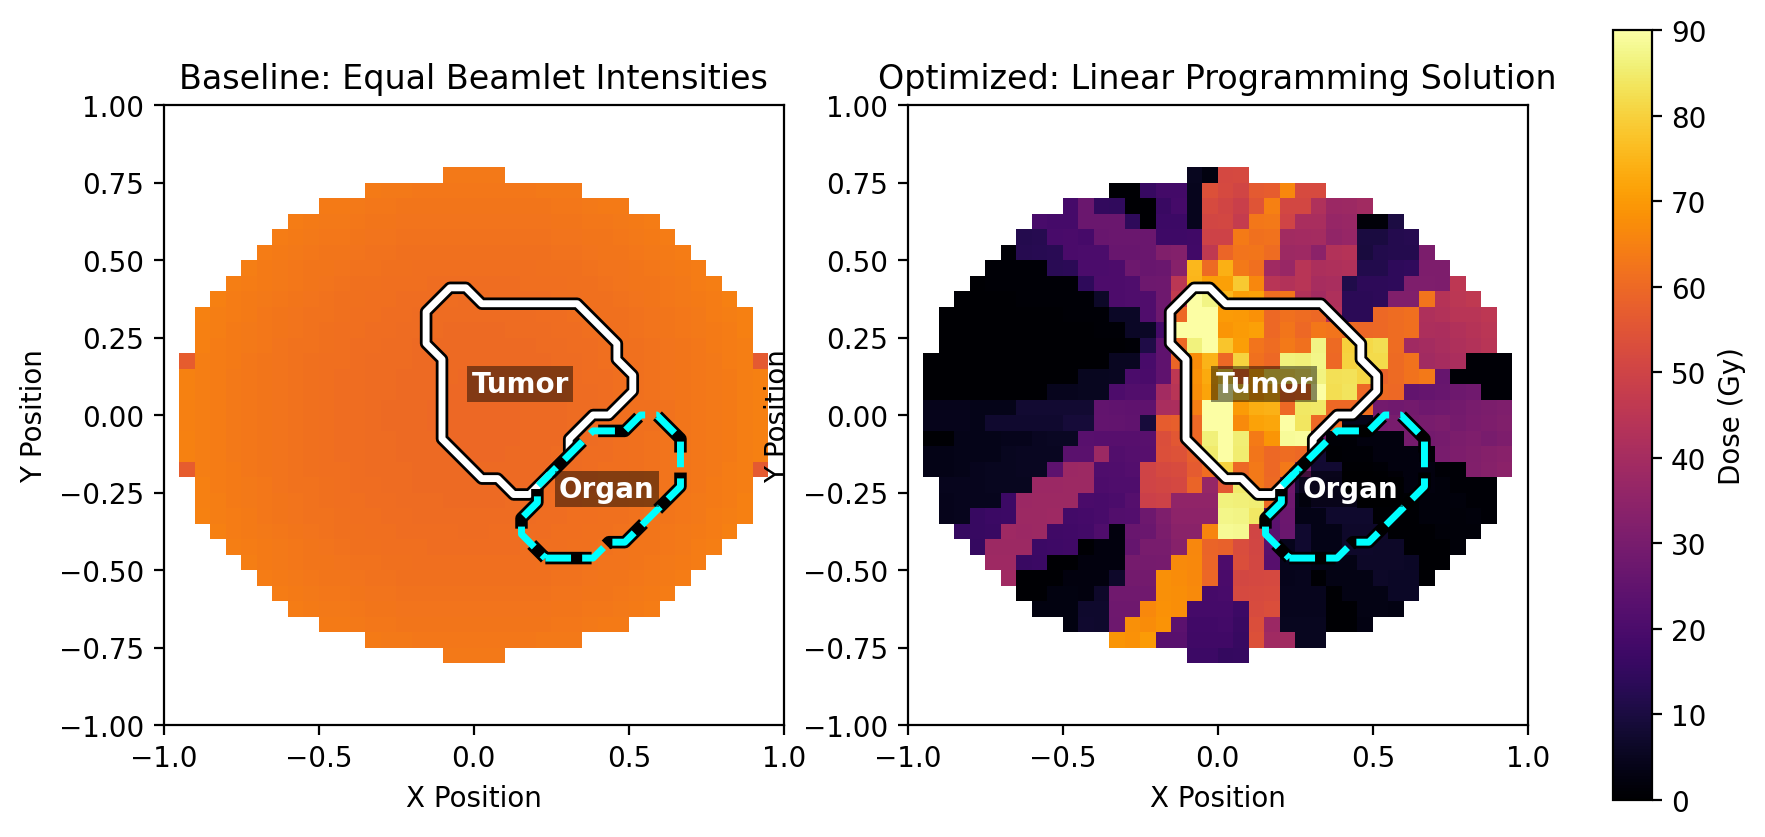
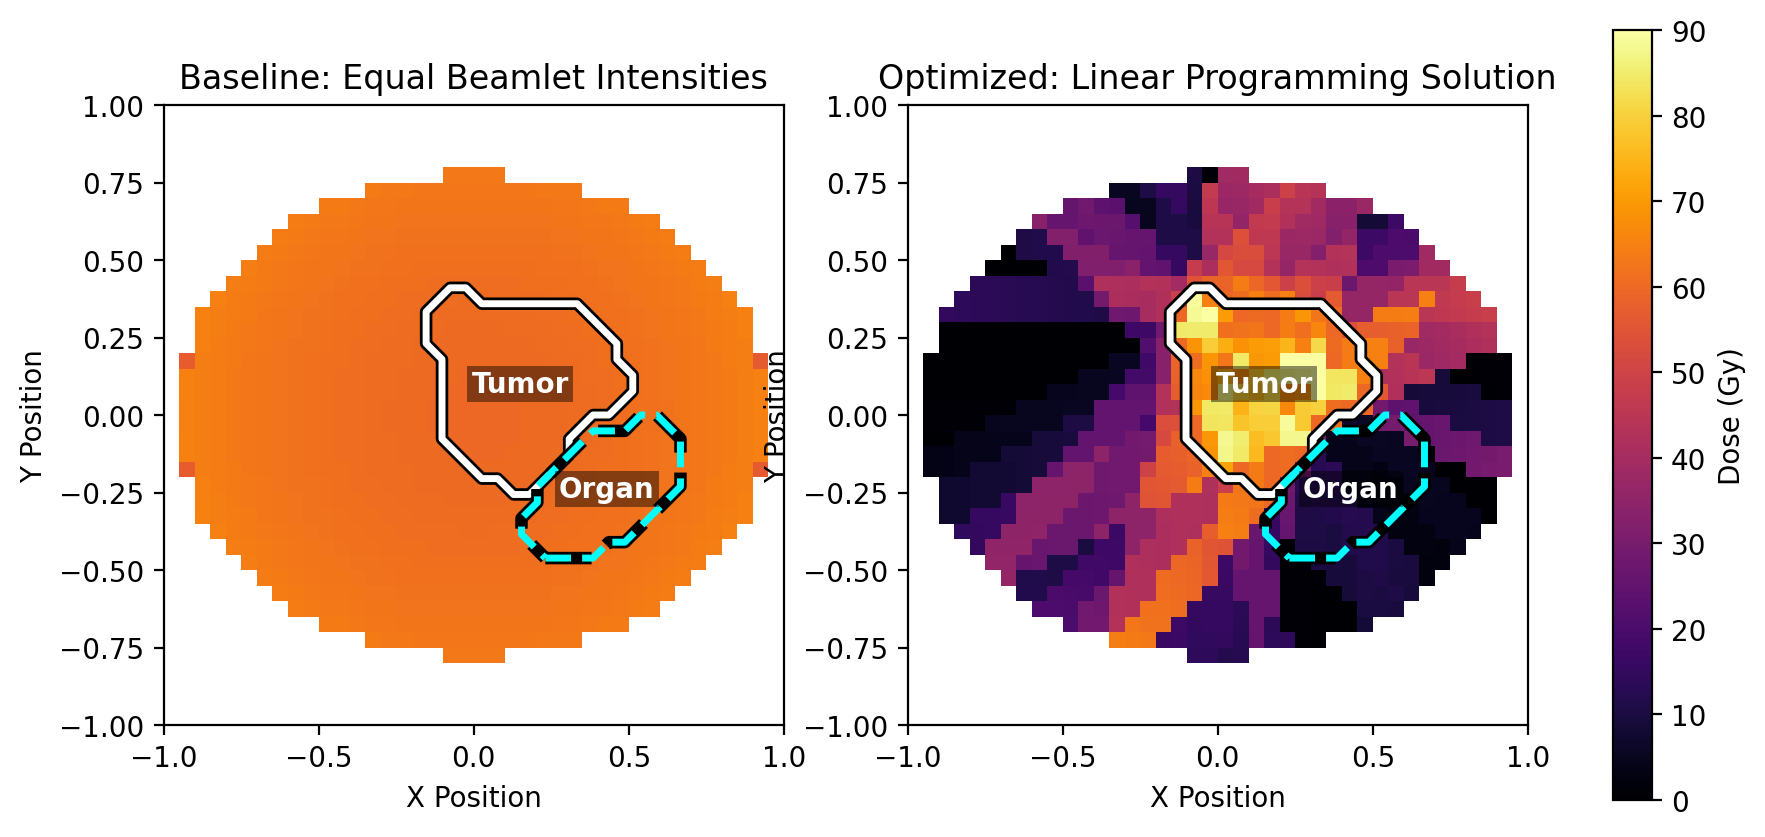
Add healthy-tissue hot-spot cap and feasibility-boundary sweep
- Third per-voxel rule: no healthy voxel above 65 Gy, anchored just
  under the baseline's healthy max (65.1) - the uncapped model hid an
  88.4 Gy hot spot behind a good average
- Sweep now starts at the 30 Gy rule and reports deltas vs it;
  bisection finds the feasibility wall at 26.66 Gy (3.34 Gy of room)
- Updated results: organ mean 10.8 Gy (-82%), healthy max exactly
  65.0 Gy, 24 beamlets, shadow price -0.184 (dual) / -0.176 (re-solve)
- Figure 4 reworked: cropped axes, wall marked, point values labeled

Changed region(s): [[0.5297, 0.1864, 0.8725, 0.7766], [0.7479, 0.5281, 0.779, 0.5591]]

diff --git a/radiotherapy_optimization.py b/radiotherapy_optimization.py
@@ -28,6 +28,9 @@ SCATTER = 0.002                       # tiny dose every voxel gets, even outside
 D_RX = 60.0                           # prescription dose in Gy - every tumor voxel must get at least this
 D_OAR = 30.0                          # organ limit in Gy - no organ voxel may get more than this
 W_OAR = 3.0                           # organ weight in the objective - organ dose counts 3 times as much
+D_HEALTHY_MAX = 65.0                  # healthy cap in Gy - no healthy voxel may get more than this;
+                                      # just under the baseline healthy max (65.1), so the optimized plan cannot create a worse hot spot than the naive plan.
+
 
 # ---------- 2. Phantom ----------
 
@@ -141,11 +144,11 @@ fig.savefig(FIG / "fig1_phantom.png", dpi=200, bbox_inches="tight")
 
 # ---------- 4. Solver ----------
 
-def solve_lp(d_rx=D_RX, d_oar=D_OAR):
+def solve_lp(d_rx=D_RX, d_oar=D_OAR, d_hmax=D_HEALTHY_MAX):
     n =len(h_rows) + W_OAR * len(o_rows)
     c_obj = (A_H.sum(axis=0) + W_OAR * A_O.sum(axis=0)) / n
-    A_ub = np.vstack([-A_T, A_O])
-    b_ub = np.concatenate([np.full(len(t_rows), -d_rx), np.full(len(o_rows), d_oar)])
+    A_ub = np.vstack([-A_T, A_O, A_H])
+    b_ub = np.concatenate([np.full(len(t_rows), -d_rx), np.full(len(o_rows), d_oar), np.full(len(h_rows), d_hmax)])
 
     return linprog(c_obj, A_ub=A_ub, b_ub=b_ub, bounds=(0, None), method="highs")
 
@@ -186,13 +189,40 @@ m_opt = metrics(x_opt)
 
 # ---------- 7. Sensitivity sweep ----------
 
-limits = [42, 36, 30, 24, 18, 12]
+limits = [30, 36, 42, 24, 18, 12]   # start at the rule itself (30), then looser, then tighter
 sweep_rows = []
+base_hm = None
+
 for lim in limits:
     r = solve_lp(D_RX, lim)
+    if not r.success:
+        sweep_rows.append((lim, None))
+        print(lim, "infeasible - no plan satisfies all three rules")
+        continue
     m = metrics(r.x)
     sweep_rows.append((lim, m["healthy_mean"]))
-    print(lim, round(m["healthy_mean"], 3))
+    if base_hm is None:
+        base_hm = m["healthy_mean"]
+        print(lim, round(m["healthy_mean"], 3), "<- the rule")
+    else:
+        print(lim, round(m["healthy_mean"], 3), f"({m['healthy_mean'] - base_hm:+.3f} vs the rule)")
+
+# Feasibility boundary: bisect the gap the sweep jumps over (30 works, 24
+# does not) to find the smallest organ limit that still admits a plan.
+feas = [lim for lim, hm in sweep_rows if hm is not None]
+infeas = [lim for lim, hm in sweep_rows if hm is None]
+wall = None
+if feas and infeas:
+    lo, hi = max(infeas), min(feas)   # lo infeasible, hi feasible
+    for _ in range(20):
+        mid = 0.5 * (lo + hi)
+        if solve_lp(D_RX, mid).success:
+            hi = mid
+        else:
+            lo = mid
+    wall = hi
+    print(f"smallest feasible organ limit: {wall:.2f} Gy - the {D_OAR:.0f} Gy rule has {D_OAR - wall:.2f} Gy of wiggle room")
+
 
 # Binding proof: slack under the optimized plan
 d_opt = A @ x_opt
@@ -200,12 +230,15 @@ oar_slack = D_OAR - d_opt[o_rows]
 n_oar_at_limit = int((oar_slack < 1e-6).sum())
 tum_slack = d_opt[t_rows] - D_RX
 n_tum_at_rx = int((tum_slack < 1e-6).sum())
+h_slack = D_HEALTHY_MAX - d_opt[h_rows]
+n_h_at_cap = int((h_slack < 1e-6).sum())
 print("organ min slack:", oar_slack.min(), "| organ voxels at limit:", n_oar_at_limit)
+print("healthy voxels at cap:", n_h_at_cap)
 print("tumor voxels at prescription:", n_tum_at_rx, "of", len(t_rows))
 
 
 # Shadow price of the organ limit, two ways
-duals = res.ineqlin.marginals[len(t_rows):]
+duals = res.ineqlin.marginals[len(t_rows):len(t_rows) + len(o_rows)]
 price_dual = float(duals.sum())
 r_lo = solve_lp(D_RX, 29.4)
 r_hi = solve_lp(D_RX, 30.6)
@@ -298,12 +331,28 @@ fig.savefig(FIG / "fig3_dvh.png", dpi=200, bbox_inches="tight")
 
 # Figure 4: Sensitivity — healthy mean dose vs organ limit
 fig, ax = plt.subplots()
-xs = [row[0] for row in sweep_rows]
-ys = [row[1] for row in sweep_rows]
+pts = sorted((row for row in sweep_rows if row[1] is not None), key=lambda r: r[0])
+xs = [row[0] for row in pts]
+ys = [row[1] for row in pts]
 ax.plot(xs, ys, marker="o")
+
+# Point labels
+
+for x, y in zip(xs, ys):
+    ax.annotate(f"{y:.2f}", (x, y), textcoords="offset points", xytext=(0, 7), ha="center", fontsize=8)
+
+# What to do if some organ limits are infeasible (no plan satisfies all three rules)
+
+if wall is not None:
+    ax.axvspan(20, wall, color="gray", alpha=0.15)
+    ax.axvline(wall, color="gray", linestyle="--", linewidth=1)
+    ax.text((20 + wall) / 2, 0.5, f"infeasible\nbelow {wall:.2f} Gy", ha="center", va="center", fontsize=8, transform=ax.get_xaxis_transform())
+
+ax.set_xlim(20, 44)
+ax.set_ylim(20, 26)
 ax.set_xlabel("Organ dose limit (Gy)")
 ax.set_ylabel("Healthy mean dose (Gy)")
-ax.set_title("Sensitivity: healthy dose vs organ limit")
+ax.set_title("Sensitivity: Healthy Dose vs Organ Limit")
 fig.savefig(FIG / "fig4_sensitivity.png", dpi=200, bbox_inches="tight")
 
 
@@ -339,9 +388,22 @@ for k, v in m_opt.items():
     L.append(f"  {k}: {v}")
 L.append("")
 L.append(f"Binding: organ voxels at limit: {n_oar_at_limit} (min slack {oar_slack.min():.2e}) | tumor voxels at prescription: {n_tum_at_rx} of {len(t_rows)}")
+L.append(f"Healthy cap: {n_h_at_cap} healthy voxels at the {D_HEALTHY_MAX:.0f} Gy cap (min slack {h_slack.min():.2e})")
 L.append(f"Shadow price: dual {price_dual:.4f} | re-solve {price_fd:.4f} (Gy of objective per Gy of organ limit)")
 L.append("")
 L.append("Sweep (organ limit -> healthy mean dose):")
+
 for lim, hm in sweep_rows:
-    L.append(f"  {lim} Gy -> {hm:.3f} Gy")
+    if hm is None:
+        L.append(f"  {lim} Gy -> infeasible")
+    elif lim == D_OAR:
+        L.append(f"  {lim} Gy -> {hm:.3f} Gy  <- the rule")
+    else:
+        L.append(f"  {lim} Gy -> {hm:.3f} Gy ({hm - base_hm:+.3f} vs the rule)")
+
+if wall is not None:
+    L.append("")
+    L.append(f"Feasibility boundary: smallest feasible organ limit {wall:.2f} Gy - the {D_OAR:.0f} Gy rule leaves {D_OAR - wall:.2f} Gy of wiggle room")
+
+
 (Path(__file__).parent / "results.txt").write_text("\n".join(L) + "\n")

diff --git a/report/results_table.md b/report/results_table.md
@@ -1,11 +1,11 @@
 | Metric | Baseline | Optimized |
 |---|---|---|
 | Tumor min dose (Gy) | 60.0 | 60.0 |
-| Tumor mean dose (Gy) | 60.4 | 74.5 |
+| Tumor mean dose (Gy) | 60.4 | 73.1 |
 | Tumor coverage >= 57 Gy (%) | 100.0 | 100.0 |
-| Healthy mean dose (Gy) | 62.5 | 24.1 |
-| Healthy max dose (Gy) | 65.1 | 88.4 |
-| Organ mean dose (Gy) | 61.4 | 7.8 |
+| Healthy mean dose (Gy) | 62.5 | 24.6 |
+| Healthy max dose (Gy) | 65.1 | 65.0 |
+| Organ mean dose (Gy) | 61.4 | 10.8 |
 | Organ max dose (Gy) | 62.5 | 30.0 |
 | Organ limit violations | 59 | 0 |
-| Beamlets used (of 105) | 105 | 21 |
+| Beamlets used (of 105) | 105 | 24 |
